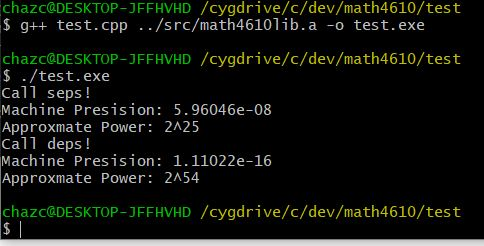
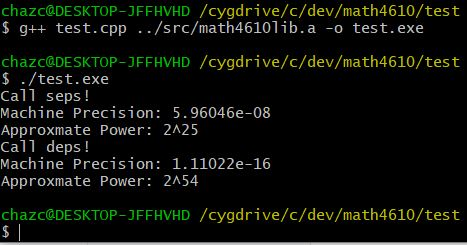
Fixed spelling error in seps,deps, and eps

Changed region(s): [[0.0, 0.2, 0.9893, 0.7714], [0.0, 0.0, 0.9893, 0.1429], [0.0, 0.8286, 1.0, 1.0]]

diff --git a/src/deps.cpp b/src/deps.cpp
@@ -17,7 +17,7 @@ void MachineEpsilon::deps()
         power++;
     }
 
-    std::cout << "Machine Presision: " << epsilon << std::endl;
+    std::cout << "Machine Precision: " << epsilon << std::endl;
     std::cout << "Approxmate Power: 2^" << power << std::endl;
 }
 

diff --git a/src/seps.cpp b/src/seps.cpp
@@ -17,7 +17,7 @@ void MachineEpsilon::seps()
         power++;
     }
 
-    std::cout << "Machine Presision: " << epsilon << std::endl;
+    std::cout << "Machine Precision: " << epsilon << std::endl;
     std::cout << "Approxmate Power: 2^" << power << std::endl;
 }
 

diff --git a/src/eps.cpp b/src/eps.cpp
@@ -18,7 +18,7 @@ void MachineEpsilon::eps()
         power++;
     }
 
-    std::cout << "Machine Presision: " << epsilon << std::endl;
+    std::cout << "Machine Precision: " << epsilon << std::endl;
     std::cout << "Approxmate Power: 2^" << power << std::endl;
 }
 
